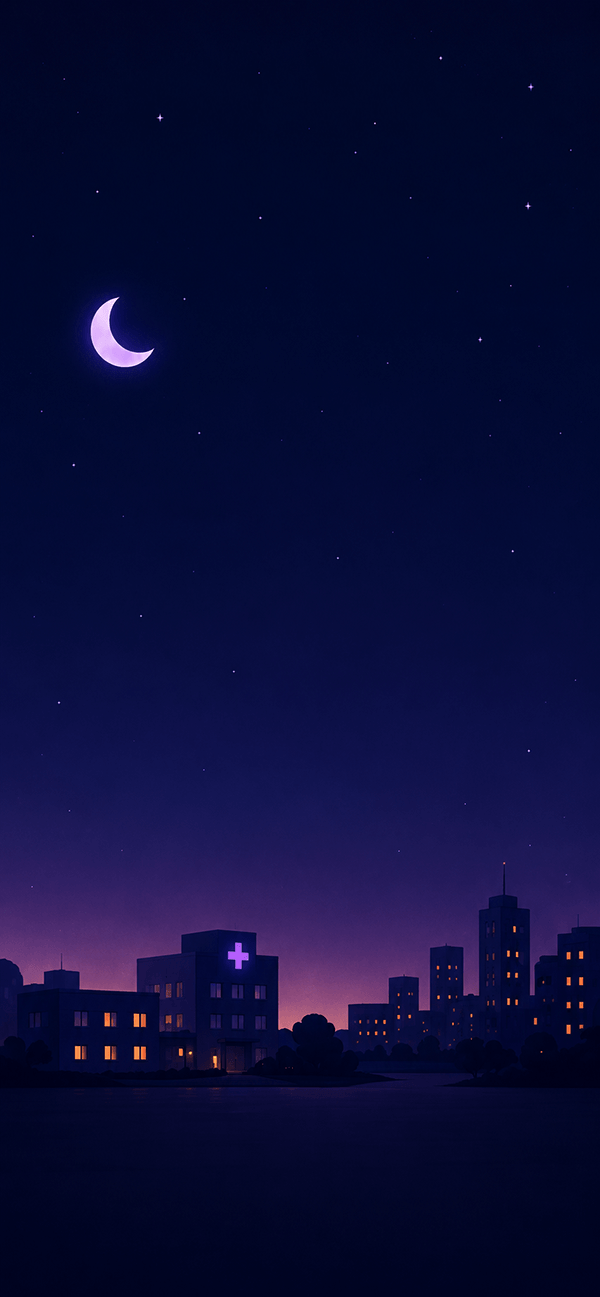
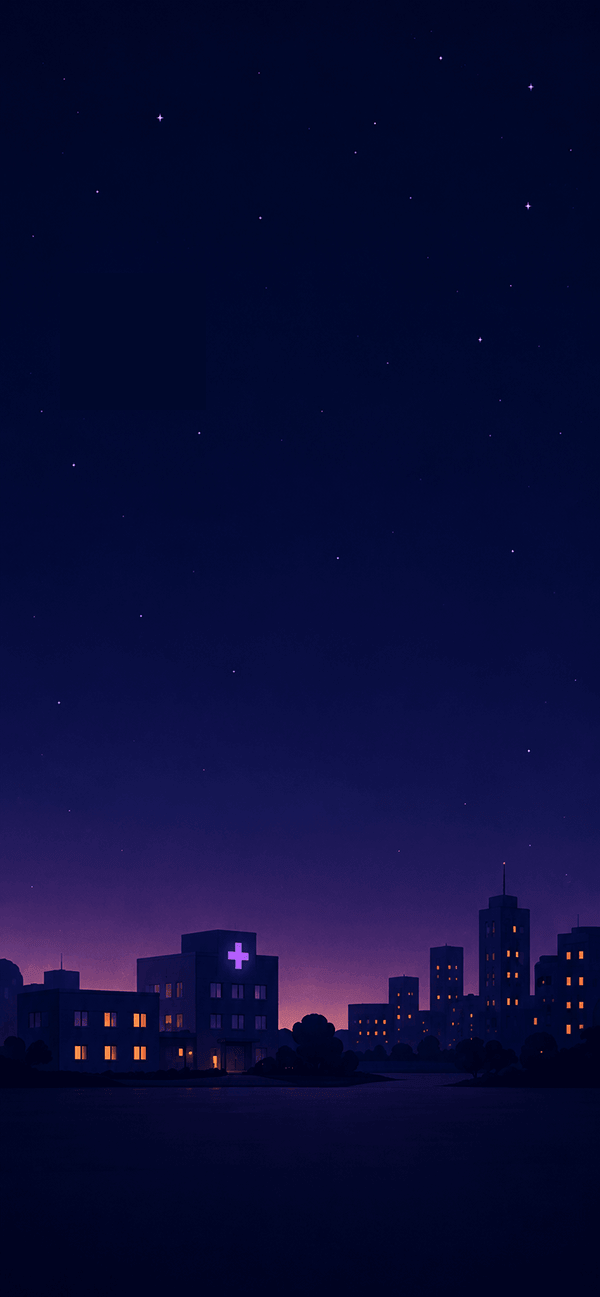
Onboarding page fixed

Changed region(s): [[0.12, 0.2159, 0.27, 0.3084]]

diff --git a/css/style.css b/css/style.css
@@ -129,7 +129,7 @@ body.page-onboarding {
   z-index: 2;
   background: transparent;
   border: none;
-  color: #fff;
+  color: #aaa;
   font-size: 0.8rem;
   font-weight: 500;
   padding: 0;
